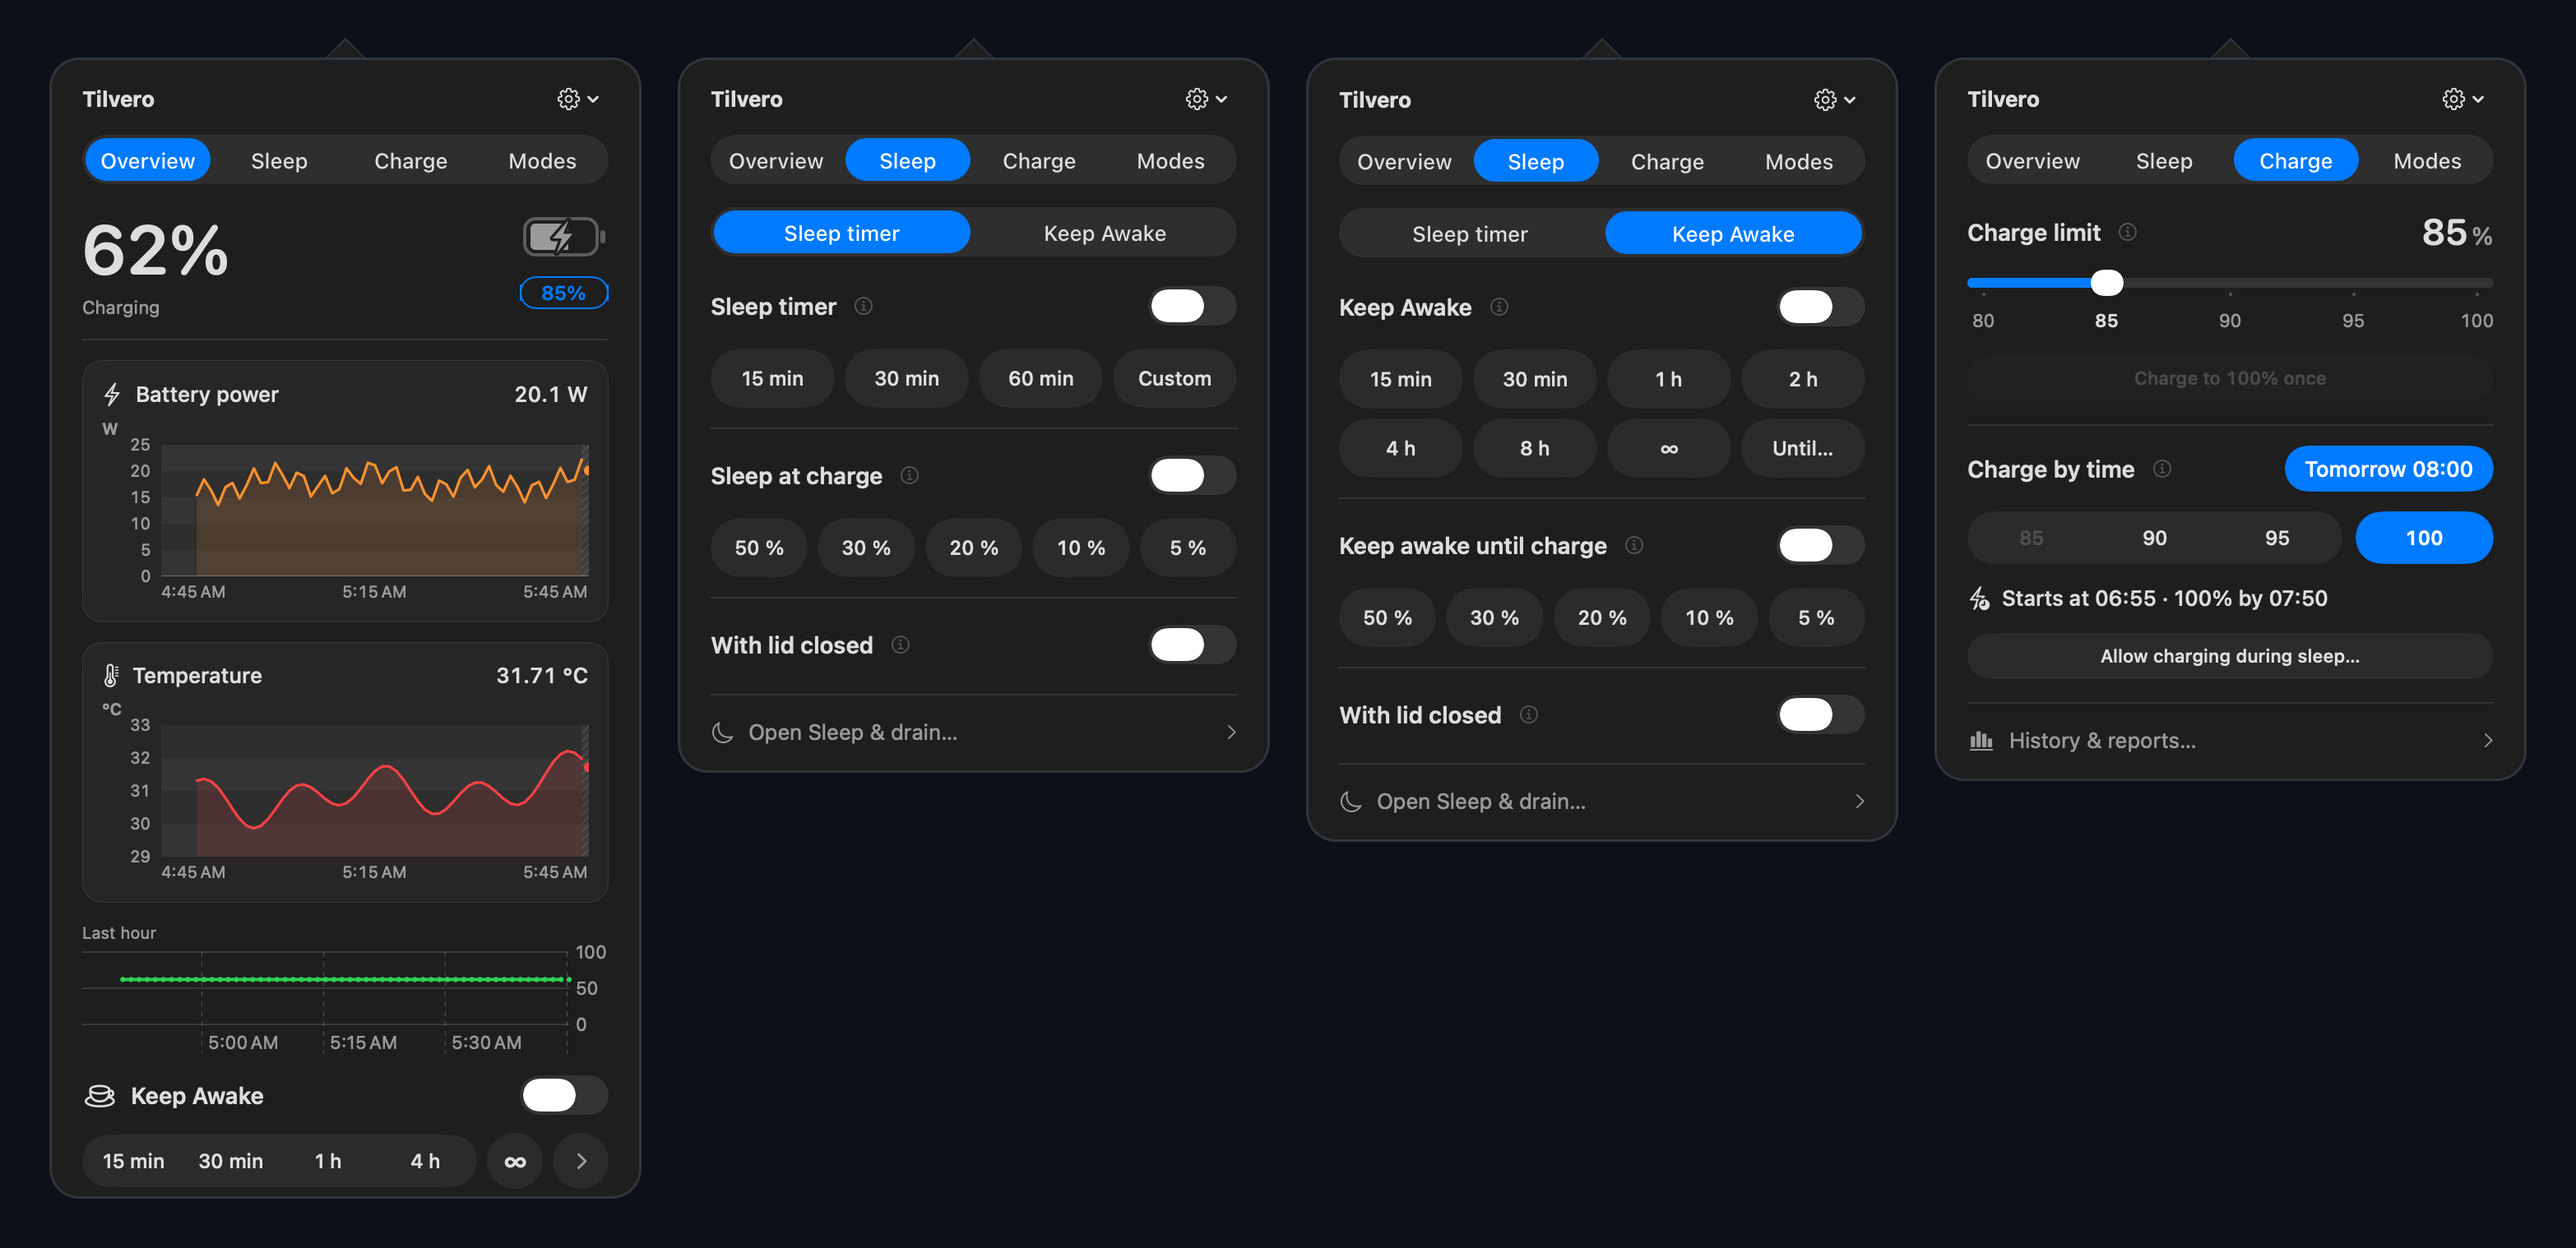
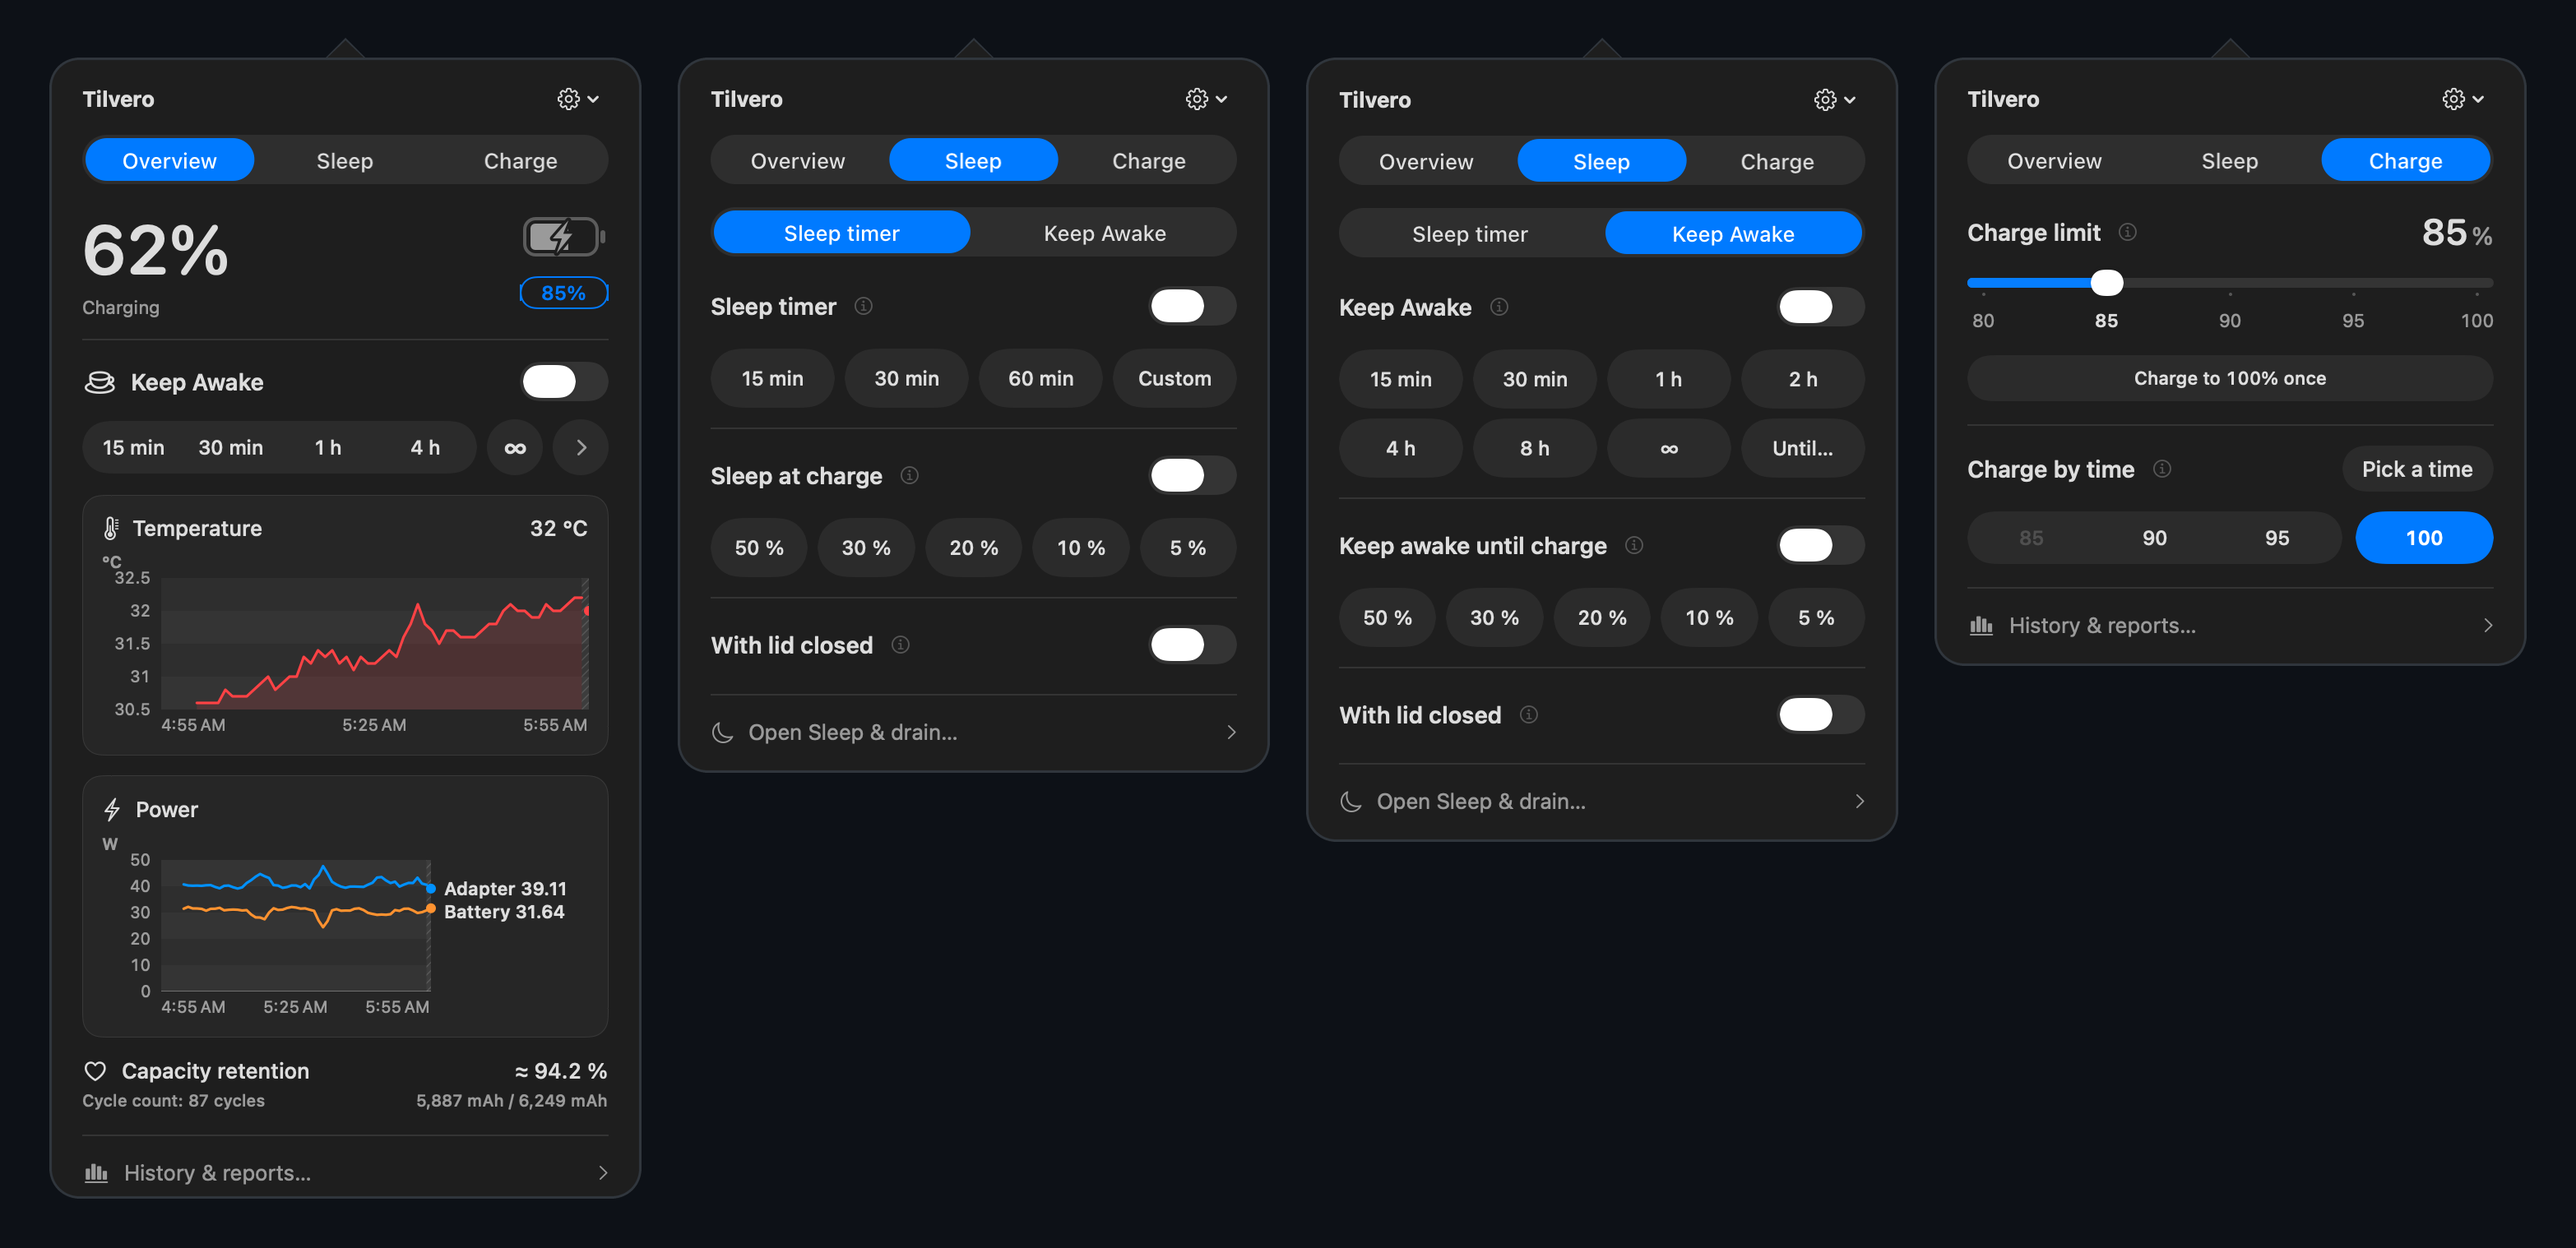
README: dark quick-menu screens (Keep Awake first, temperature and combined power charts, battery health, no Modes); chart axis follows the app language

diff --git a/Sources/TilveroApp/MetricChartView.swift b/Sources/TilveroApp/MetricChartView.swift
@@ -186,7 +186,7 @@ struct MetricChartView: View {
                               width: max(proxy.size.width - axisWidth - gutter - endLabelWidth, 1), height: plotHeight)
             let domain = scale.domain
             let spread = Self.endLabelPositions(specs: specs, scale: scale, plotHeight: plotHeight)
-            let tickLabels = scale.tickLabels()
+            let tickLabels = scale.tickLabels(locale: L10n.locale)
             ZStack(alignment: .topLeading) {
                 Canvas { context, _ in draw(&context, rect: rect, scale: scale) }
                 ForEach(Self.labelledTickIndices(count: scale.ticks.count, density: density), id: \.self) { index in

diff --git a/Sources/TilveroApp/QuickPanel.swift b/Sources/TilveroApp/QuickPanel.swift
@@ -12,7 +12,8 @@ enum QuickPanelSection: String, CaseIterable, Identifiable {
     /// Tabs still in development (Modes) are shown only in debug and laboratory builds, never in a release.
     static var showsDevelopmentSections: Bool {
         #if DEBUG
-        true
+        // Screenshots of the public look hide the tab: `-TilveroReleaseTabs YES` (never set in a release build).
+        !UserDefaults.standard.bool(forKey: "TilveroReleaseTabs")
         #else
         Bundle.main.object(forInfoDictionaryKey: "TilveroDataScope") as? String == "laboratory"
         #endif

diff --git a/README.md b/README.md
@@ -38,14 +38,11 @@ missing values stay unavailable. Monitoring needs no administrator approval.
 
 ## Quick menu
 
-The menu bar popover is the heart of Tilvero: Overview with live charts and the
-charge limit, two Sleep pages (timer and Keep Awake) and Charge with the limit,
-a one-time full charge and charge by time.
+The menu bar popover is the heart of Tilvero: Overview with Keep Awake, live
+charts and battery health, two Sleep pages (timer and Keep Awake) and Charge with
+the limit, a one-time full charge and charge by time.
 
-<picture>
-  <source media="(prefers-color-scheme: dark)" srcset=".github/assets/screenshots/quick-menu-dark.png">
-  <img src=".github/assets/screenshots/quick-menu-light.png" alt="Tilvero quick menu: Overview, Sleep timer, Keep Awake and Charge" width="100%">
-</picture>
+<img src=".github/assets/screenshots/quick-menu-dark.png" alt="Tilvero quick menu: Overview, Sleep timer, Keep Awake and Charge" width="100%">
 
 <sub>Overview · Sleep timer · Keep Awake · Charge. Rendered from source with injected demo readings; they do not
 establish hardware support or qualify a release binary.</sub>
